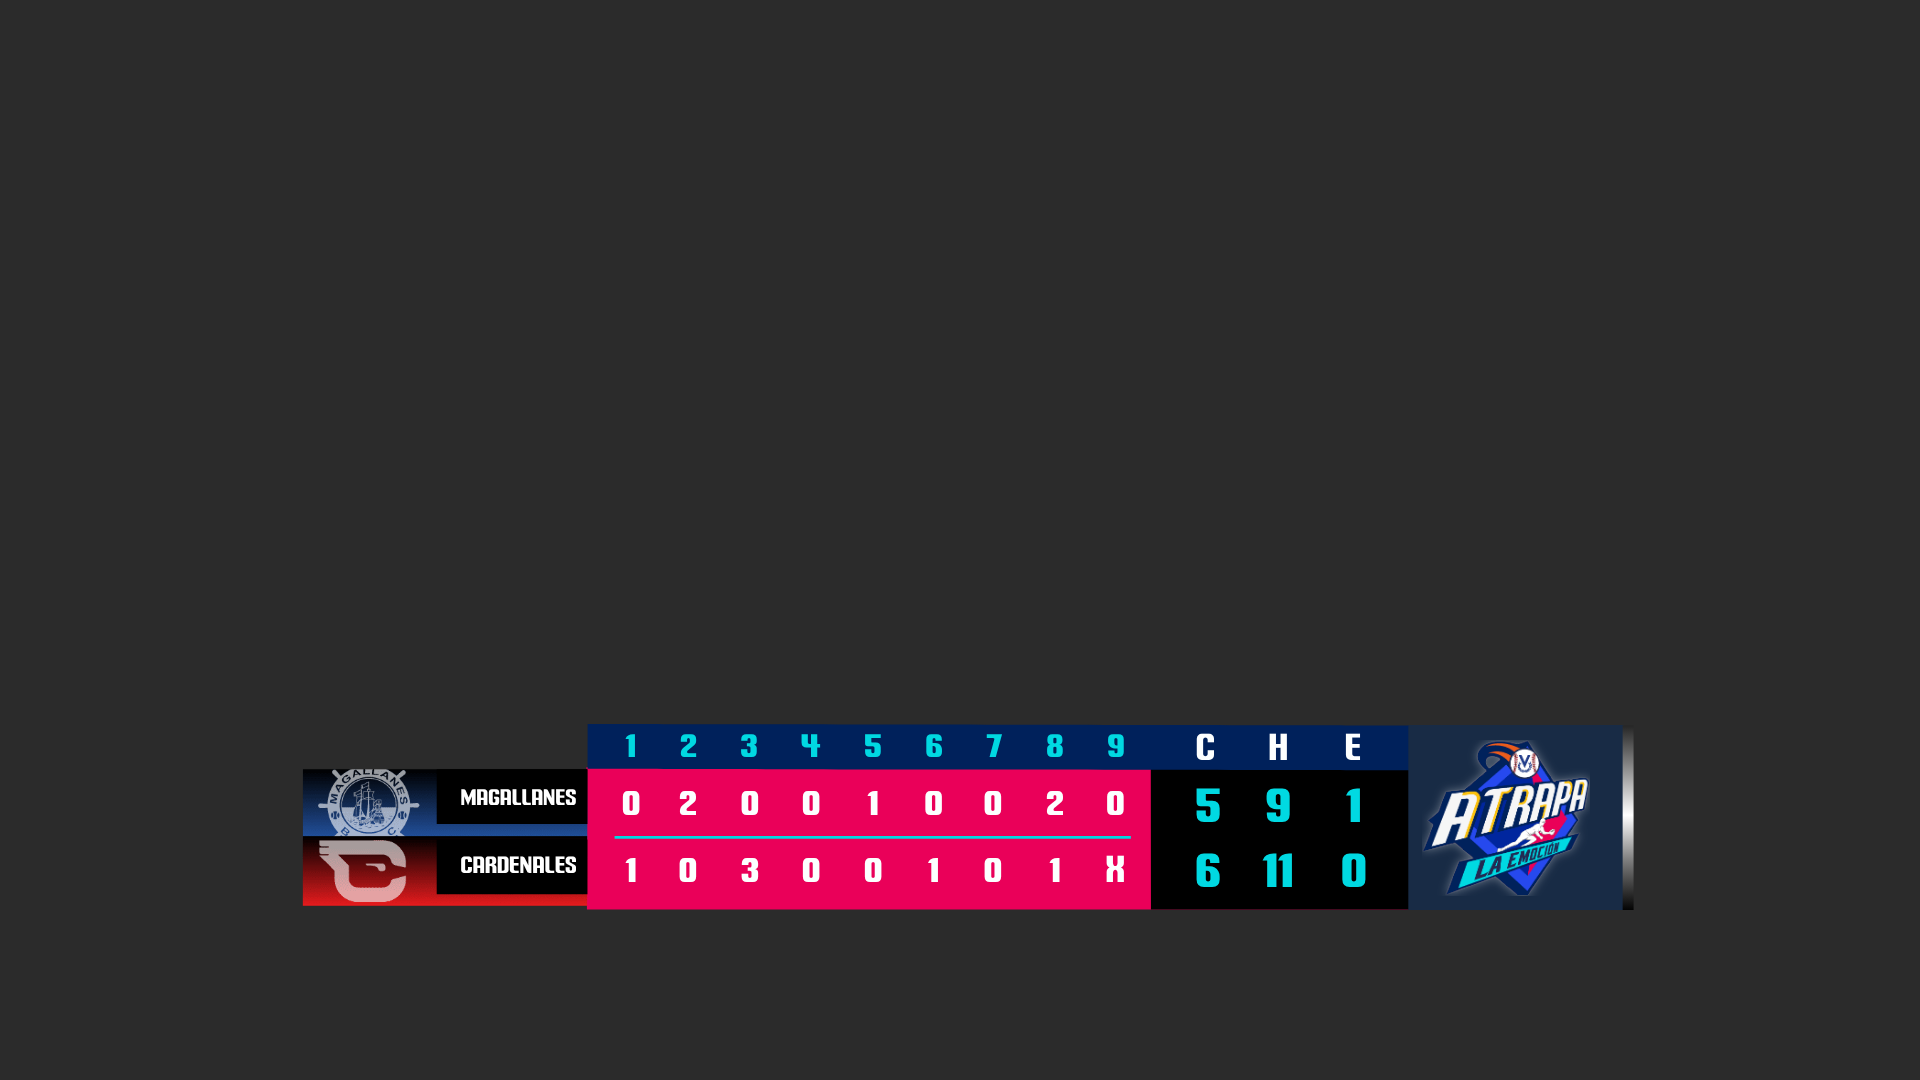
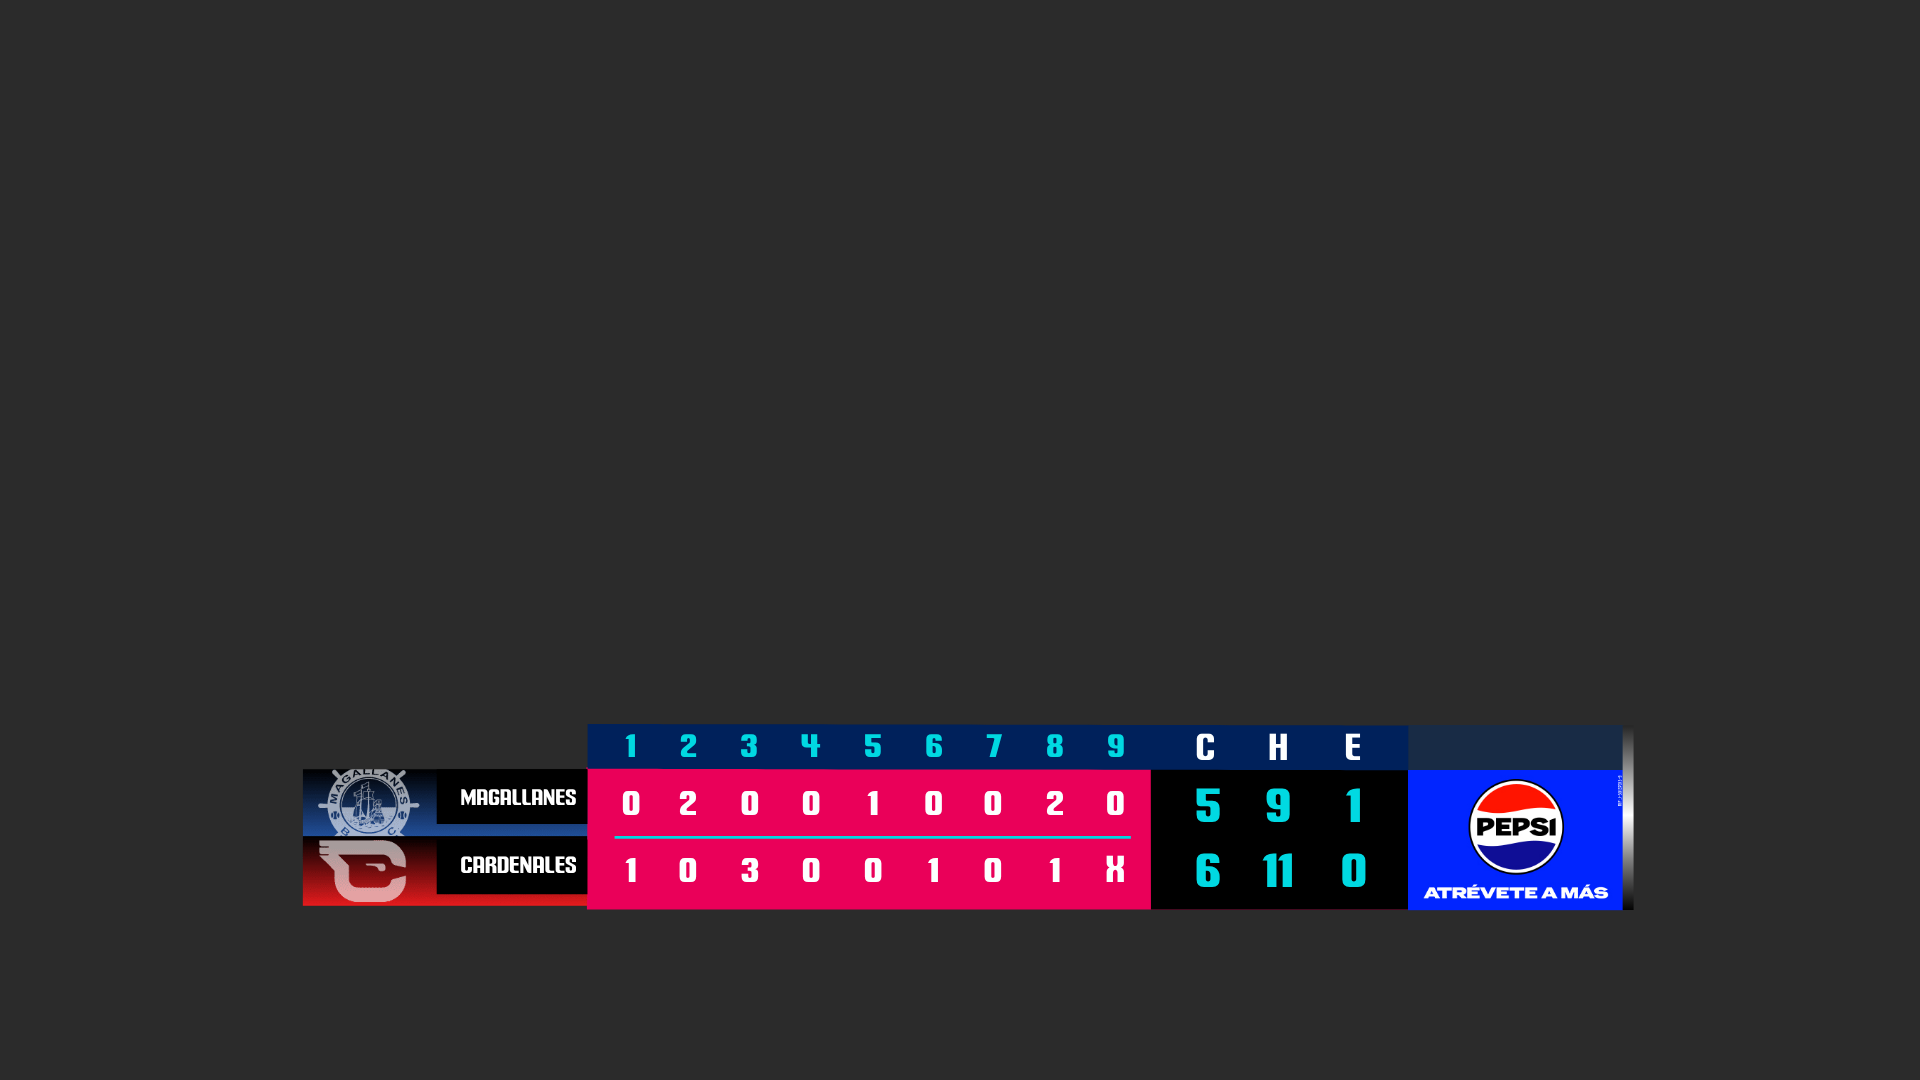
Score final: Pepsi por defecto y la entrada del parcial
La publicidad es la imagen del parcial (Pepsi) y entra como allá: desde la
izquierda, recortada por su rectángulo (39–58), sin capa de escala ni sombra.
Sale el logo de ATRAPA LA EMOCIÓN. Capturas regeneradas.

Claude-Session: https://claude.ai/code/session_01DM7A4Fj1BZXtN4wNSiejVr

Changed region(s): [[0.7188, 0.6722, 0.8438, 0.8556]]

diff --git a/herramientas/prep.js b/herramientas/prep.js
@@ -2107,9 +2107,45 @@ if (hay('TABLA DE POSICIONES')) {
 // STOP, 90–119, no anima nada): es la entrada al revés, como en los demás.
 const SF_PAUSA = 59;                   // play 0–59: queda en el 58
 const SF_ENTRADA = 58;                 // la entrada termina en el 58
-const SF_MARGEN = 8;
+const SF_MARGEN = 8;                   // las cajas, 8 px antes de la columna vecina o del borde de su caja negra
 const SF_PUB = { x: 1408, y: 770, w: 215.1, h: 140.4 };   // la publicidad, en px de pantalla: la caja a lo ancho, la parte negra de alto
-const SF_LOGO = '488fb05ab214.png';     // el logo de ATRAPA LA EMOCIÓN entero en 430 × 280, la publicidad por defecto                   // las cajas, 8 px antes de la columna vecina o del borde de su caja negra
+const SF_PUB_ENTRA = [39, 58];          // la publicidad entra deslizándose, 19 frames como en el parcial, y siempre adentro de su caja (40–51)
+// La caja de la derecha es la clave `publicidad`, para la imagen de un patrocinador (Leon,
+// 2026-11-05), con la imagen y la entrada del cuadro del parcial: por defecto, el Pepsi del parcial
+// (PEP_IMAGEN), y entra deslizándose desde la izquierda, recortada por su rectángulo, con la curva del
+// parcial y la misma distancia en anchos de imagen (328 px para 316). El rectángulo (SF_PUB) es la
+// caja a lo ancho (x 1408–1623) y la parte negra de C H E de alto (y 770–910): la imagen lo cubre
+// (slice), y una de otra proporción queda recortada; la ideal, 430 × 280 (Pepsi, 316 × 200, pierde
+// 2 px de cada lado). El logo de ATRAPA LA EMOCIÓN del export sale: su capa pasa a ser la de la
+// publicidad, sin parent, sin su sombra blanca y sin su escala. "" o una ruta que no carga, la caja vacía.
+function publicidadEnLaCaja(d) {
+    const pub = rename(d, 'LOGO FINAL ATRAPA LA EMOCION.png', 'publicidad');
+    const img = d.assets.find(a => a.id === pub.refId);
+    if (img.w !== 363 || img.h !== 337 || !pub.ef || pub.ks.p.a) throw new Error('publicidad: el logo llega de otra forma');
+    if (!fs.existsSync(path.join(REPO, '_assets', PEP_IMAGEN.p))) throw new Error(`falta _assets/${PEP_IMAGEN.p}`);
+    Object.assign(img, { w: SF_PUB.w, h: SF_PUB.h, u: '../_assets/', p: PEP_IMAGEN.p, e: 0, pr: 'xMidYMid slice' });
+    const cx = SF_PUB.x + SF_PUB.w / 2, cy = SF_PUB.y + SF_PUB.h / 2, fuera = cx - SF_PUB.w * 328 / 316;
+    delete pub.parent; delete pub.ef;
+    pub.ks = {
+        o: { a: 0, k: 100 }, r: { a: 0, k: 0 }, a: { a: 0, k: [SF_PUB.w / 2, SF_PUB.h / 2, 0] }, s: { a: 0, k: [100, 100, 100] },
+        p: { a: 1, k: [
+            { i: { x: 0, y: 1 }, o: { x: 0.333, y: 0 }, t: SF_PUB_ENTRA[0], s: [fuera, cy, 0], to: [0, 0, 0], ti: [0, 0, 0] },
+            { t: SF_PUB_ENTRA[1], s: [cx, cy, 0] }
+        ] }
+    };
+    pub.tt = 1;
+    const mate = {
+        ddd: 0, ind: Math.max(...d.layers.map(l => l.ind)) + 1, ty: 4, nm: 'mate publicidad', td: 1, sr: 1, ao: 0, bm: 0,
+        ks: { o: { a: 0, k: 100 }, r: { a: 0, k: 0 }, p: { a: 0, k: [cx, cy, 0] }, a: { a: 0, k: [0, 0, 0] }, s: { a: 0, k: [100, 100, 100] } },
+        shapes: [{ ty: 'gr', nm: 'cuadro', it: [
+            { ty: 'rc', d: 1, s: { a: 0, k: [SF_PUB.w, SF_PUB.h] }, p: { a: 0, k: [0, 0] }, r: { a: 0, k: 0 } },
+            { ty: 'fl', c: { a: 0, k: [1, 1, 1, 1] }, o: { a: 0, k: 100 }, r: 1, bm: 0 },
+            { ty: 'tr', p: { a: 0, k: [0, 0] }, a: { a: 0, k: [0, 0] }, s: { a: 0, k: [100, 100] }, r: { a: 0, k: 0 }, o: { a: 0, k: 100 }, sk: { a: 0, k: 0 }, sa: { a: 0, k: 0 } }
+        ] }],
+        ip: pub.ip, op: pub.op, st: 0
+    };
+    d.layers.splice(d.layers.indexOf(pub), 0, mate);
+}
 if (hay('SCORE FINAL')) {
     const d = load(path.join(SRC, 'SCORE FINAL/data.json'));
     const FIN = SF_PAUSA + SF_ENTRADA;     // lo que la entrada muestra en el frame t, la salida lo muestra en el FIN − t
@@ -2179,27 +2215,7 @@ if (hay('SCORE FINAL')) {
     rename(d, 'C', 'rotulocarreras');
     rename(d, 'H', 'rotulohits');
     rename(d, 'E', 'rotuloerrores');
-    // La caja de la derecha es la clave `publicidad`, para la imagen de un patrocinador (Leon,
-    // 2026-11-05): llena el rectángulo de la caja a lo ancho (x 1408–1623) y a la altura de la parte
-    // negra de C H E (y 770–910), 215 × 140 px de pantalla; una imagen de otra proporción lo cubre
-    // igual, recortada (slice). Entra como entraba el logo (crece desde el centro del 49 al 56), sin su
-    // sombra blanca: alrededor de una imagen opaca era un halo sobre el negro y la banda azul. Por
-    // defecto, el logo de ATRAPA LA EMOCIÓN entero en ese rectángulo (SF_LOGO: el PNG del export
-    // llevado a 280 de alto, centrado en 430 × 280, con alfa). "" o una ruta que no carga, la caja vacía.
-    const logo = rename(d, 'LOGO FINAL ATRAPA LA EMOCION.png', 'publicidad');
-    const imgLogo = d.assets.find(a => a.id === logo.refId);
-    const raiz = layer(d, 'Nulo 1');
-    if (imgLogo.w !== 363 || imgLogo.h !== 337 || logo.parent !== raiz.ind || raiz.ks.p.a || raiz.ks.s.k[0] !== 90
-        || String(raiz.ks.p.k.slice(0, 2)) !== '972,662' || String(raiz.ks.a.k.slice(0, 2)) !== '51,48' || logo.ks.p.a || logo.ks.a.a)
-        throw new Error('publicidad: el logo o el Nulo 1 llegan de otra forma: medir de nuevo SF_PUB');
-    if (!fs.existsSync(path.join(REPO, '_assets', SF_LOGO))) throw new Error(`falta _assets/${SF_LOGO}`);
-    const u = SF_PUB.w / 0.9, v = SF_PUB.h / 0.9;            // px de pantalla a unidades de la capa (Nulo 1 al 90 %)
-    Object.assign(imgLogo, { w: Math.round(u), h: Math.round(v), u: '../_assets/', p: SF_LOGO, e: 0, pr: 'xMidYMid slice' });
-    logo.ks.a.k = [imgLogo.w / 2, imgLogo.h / 2, 0];
-    logo.ks.p.k = [51 + (SF_PUB.x + SF_PUB.w / 2 - 972) / 0.9, 48 + (SF_PUB.y + SF_PUB.h / 2 - 662) / 0.9, 0];
-    if (!logo.ks.s.a || logo.ks.s.k.filter(k => k.s[0] === 51).length !== 2) throw new Error('publicidad: escala inesperada');
-    for (const k of logo.ks.s.k) if (k.s[0] === 51) k.s = [100, 100, 100];
-    delete logo.ef;
+    publicidadEnLaCaja(d);
     // Las barras: las 8 de cada fila apiladas, todas visibles al arrancar, como en el parcial: el
     // controlador manda 1 a la que va y 0 a las otras siete.
     const barras = d.layers.filter(l => /^\.BARRA_[A-Z]+_(LOCAL|VISITA)$/.test(l.nm));

diff --git a/CLAUDE.md b/CLAUDE.md
@@ -30,7 +30,7 @@ UPDATE están en su `data.md`. Las imágenes de todos, juntas en `_assets/`, una
 | `otrosjuegos/` | Cómo van los otros juegos (el export es OTROS JUEGOS; el título, ASÍ VAN), una columna abajo a la derecha: arriba, un cuadro de Harina PAN entra, arma su logo y se va (una secuencia de JPG); debajo, el título y tres juegos, cada uno con la sede, las barras de visita y local (escudo y nombre), las carreras y el inning con sus flechas. El frame 0 está vacío | `play` lo pone al aire vacío (pausa en el 0); el controlador elige con un `goto`: `tresjuegos` (100–266), `dosjuegos` (400–566) o `unjuego` (700–866), el mismo gráfico con 3, 2 o 1 juegos. En cada uno, desde el `goto`, el cuadro entra del 11 al 23, la columna del 27 al 95 (un juego detrás del otro) y el cuadro se va del 157 al 164 | `salida`: la columna, su entrada al revés, sin el cuadro (2,3 s); `salida2` (1,9 s) y `salida1` (1,3 s) |
 | `prevenido/` | El bateador en el círculo (el export es PREVENIDO AL BATE), abajo a la derecha: un panel de LMV entra girando, muestra su logo con un brillo y se va (una secuencia de PNG); debajo, la barra negra con el PREVENIDO AL BATE y el recuadro azul con el nombre. El frame 0 está vacío | stage `play` pause (0–170): la barra entra del 23 al 32, el título del 31 al 39, el recuadro y el nombre del 33 al 48, y el panel se va del 151 al 168 | `salida`: la barra, el título, el recuadro y el nombre, su entrada al revés, sin el panel (0,9 s) |
 | `posiciones/` | La tabla de posiciones (el export es TABLA DE POSICIONES), a pantalla completa y opaca: el fondo, el título POSICIONES, los rótulos de las columnas, el recuadro magenta de los números y el cuadro de GoGo Royal (una secuencia de JPG); encima, 8 filas, cada una con la barra del equipo (con su escudo), el nombre en una caja negra y JJ, JG, JP, AVE y DIF. El frame 0 está vacío; desde el 1, el gris del diseño tapa el video | stage `play` pause (0–76): el gris quieto hasta el 11, el fondo entra del 12 al 64, las barras bajan del 29 al 44, los nombres aparecen del 41 al 66 y los números del 60 al 75 | `salida`: la entrada al revés, que termina en el gris y corta al video (2,5 s) |
-| `scorefinal/` | El score final (el export es SCORE FINAL), el line score, abajo (x 302–1634, y 724–910): las barras de visita y local (escudo y nombre, las mismas imágenes de la tabla de posiciones), las carreras de los 9 innings sobre un recuadro magenta, C H E en negro y la caja del logo de ATRAPA LA EMOCIÓN (`publicidad`, una imagen que llena la caja: el logo por defecto), con una raya plateada a la derecha. El frame 0 está vacío | stage `play` pause (0–59): las barras entran del 0 al 27, el recuadro y los números del 9 al 48 y la caja del logo del 40 al 58 | `salida`: la entrada al revés (1,9 s) |
+| `scorefinal/` | El score final (el export es SCORE FINAL), el line score, abajo (x 302–1634, y 724–910): las barras de visita y local (escudo y nombre, las mismas imágenes de la tabla de posiciones), las carreras de los 9 innings sobre un recuadro magenta, C H E en negro y la caja del logo de ATRAPA LA EMOCIÓN (`publicidad`, una imagen que llena la caja: Pepsi por defecto), con una raya plateada a la derecha. El frame 0 está vacío | stage `play` pause (0–59): las barras entran del 0 al 27, el recuadro y los números del 9 al 48, la caja del logo del 40 al 58 y la publicidad entra deslizándose del 39 al 58 | `salida`: la entrada al revés (1,9 s) |
 
 Cómo se ve, en [capturas/](capturas/): `score.png` (pantalla completa con data de ejemplo y la barra
 arriba), `score_marcador.png` (sin la barra) y `score_equipos.png` (los 56 cruces
@@ -54,7 +54,8 @@ casos que ponen cada equipo en las 6 filas, recortado al gráfico) y `otrosjuego
 con el panel), del 2026-10-23; `posiciones.png` (pantalla completa con el ejemplo de su `data.md`, en
 la pausa) y `posiciones_equipos.png` (8 casos que ponen cada equipo en las 8 filas, recortado a la
 tabla), del 2026-10-24; `scorefinal.png` (pantalla completa con el ejemplo de su `data.md`, en la pausa)
-y `scorefinal_equipos.png` (los 56 cruces `visita_vs_local`, recortado al gráfico), del 2026-10-29. Si un gráfico cambia, hay que
+y `scorefinal_equipos.png` (los 56 cruces `visita_vs_local`, recortado al gráfico), del 2026-11-05, con
+Pepsi en la caja de la derecha. Si un gráfico cambia, hay que
 regenerarlas (las de Leones, con el ejemplo de su `data.md`, en el último frame de la entrada). No
 entran al zip (`.gitattributes`).
 
@@ -689,15 +690,14 @@ de C H E (y la banda azul) y la caja del logo (x 1408). El magenta crece 1 px a 
 negro y la banda, 1 px a la derecha, por debajo de su vecino. En Chromium, con los 56 cruces, el alfa
 es 255 en todo el gráfico salvo los bordes de afuera.
 
-Publicidad (Leon, 2026-11-05): la caja de la derecha es la clave `publicidad`, para la imagen de un
-patrocinador. La imagen llena la caja a lo ancho y a la altura de la parte negra de C H E (x
+Publicidad (Leon, 2026-11-05): la caja de la derecha es la clave `publicidad`, con la imagen y una
+entrada como las del cuadro del parcial: por defecto, el mismo Pepsi (`_assets/9116da765ab4.png`), y
+entra deslizándose desde la izquierda, recortada por su rectángulo (del 39 al 58, la curva del
+parcial; siempre adentro de la caja, que se abre del 40 al 51). El logo de ATRAPA LA EMOCIÓN del
+export sale. La imagen llena la caja a lo ancho y a la altura de la parte negra de C H E (x
 1408–1623, y 770–910: 215 × 140 px; Leon, con una captura marcada); el tamaño ideal es 430 × 280, y
-una de otra proporción la cubre igual, recortada (`pr` slice). Entra como el logo del diseño, que
-crecía desde su centro del 49 al 56, pero sin su sombra blanca (alrededor de una imagen opaca era un
-halo sobre el negro y la banda azul). Por defecto, el logo de ATRAPA LA EMOCIÓN entero en ese
-rectángulo (`_assets/488fb05ab214.png`: el PNG del export a 280 de alto, centrado en 430 × 280):
-sale un poco más chico y más abajo que en el diseño, y sin la sombra. `""` o una ruta que no carga
-dejan la caja vacía. El controlador todavía no la manda: sale el logo.
+una de otra proporción la cubre igual, recortada (`pr` slice: Pepsi pierde 2 px de cada lado). `""` o
+una ruta que no carga dejan la caja vacía. El controlador todavía no la manda: sale Pepsi.
 
 Colores: el magenta es el de los outs del score de antes (`#EA0059`) y el cian, el de los textos del
 score (`#00D9E2`, 113,5 IRE en NTSC compuesto). Pendiente: medir el logo y las barras en NTSC (las
@@ -1252,7 +1252,7 @@ lo del 51 y el 150, el gris del 1; el 151, vacío.
 **Score final**
 
 - **Imágenes:** las 9 del export van tal cual a `scorefinal/images/` (`img_0`, el logo; `img_1`–`8`,
-  las barras, los mismos archivos que las de la tabla de posiciones); `consolidar.mjs` no suma nada: el logo (`img_0`) no se usa, la publicidad por defecto es `SF_LOGO`.
+  las barras, los mismos archivos que las de la tabla de posiciones); `consolidar.mjs` no suma nada: el logo (`img_0`) no se usa, la publicidad es la del parcial.
 - **Clases:** `,NOMBRE EQUIPO VISITANTE` (con coma: sin clase) y `.NOMBRE EQUIPO LOCAL` (clase
   `NOMBRE`) → `NOMBREVISITA` / `NOMBRELOCAL`; `.CARRERAS POR INNING ALTA<n>` / `BAJA<n>` (todas con la
   clase `CARRERAS`) → `INNINGVISITA<n>` / `INNINGLOCAL<n>`; `.CARRERASVISITA`, `.HITSVISITA`,
@@ -1260,7 +1260,8 @@ lo del 51 y el 150, el gris del 1; el 151, vacío.
   espacio, y el texto `9 ` también) → `ultimoinning`; `C`, `H`, `E` (sin clase) → `rotulocarreras`,
   `rotulohits`, `rotuloerrores`; las barras `.BARRA_<EQUIPO>_<LOCAL|VISITA>` →
   `<SIGLAS><LOCAL|VISITA>_opacidad`. El logo (`LOGO FINAL ATRAPA LA EMOCION.png`, clase `png`) →
-  `publicidad`: el rectángulo `SF_PUB`, la imagen `SF_LOGO` y sin el Drop Shadow (ver arriba). Las `Capa de formas` y `Nulo 1` quedan como vienen.
+  `publicidad` (`publicidadEnLaCaja()`: el rectángulo `SF_PUB` con su mate, la imagen del parcial
+  y la entrada `SF_PUB_ENTRA`; sin parent, escala ni Drop Shadow; ver arriba). Las `Capa de formas` y `Nulo 1` quedan como vienen.
 - **Fuente:** `fPath` llega como `SCORE FINAL/ FONT`: pasa a `font/LTEnergy-Regular.ttf` (el mismo
   archivo que el del bateador).
 - **All Caps:** llega apagado: `prep.js` lo prende.

diff --git a/scorefinal/data.md b/scorefinal/data.md
@@ -14,8 +14,8 @@
 A control client sends a flat JSON object. Any subset of these keys is valid — omit what you don't need to change.
 
 **Final score (line score):** the runs of each inning for both teams (visitor on top, home below),
-runs, hits and errors, the team bars with their names, and the box on the right: the ATRAPA LA
-EMOCIÓN logo by default, or a sponsor (`publicidad`).
+runs, hits and errors, the team bars with their names, and the sponsor box on the right (`publicidad`:
+Pepsi by default).
 
 **Same keys as the LVBP-Meridiano `final`** for what both show: the team bars, the runs, hits and
 errors (`CARRERASVISITA`, `HITSVISITA`, `ERRORESVISITA`, `CARRERASLOCAL`…), the runs of each inning
@@ -43,12 +43,13 @@ won) and `""` to leave a cell empty. All the numbers start empty.
 **Runs, hits and errors:** centered in their columns; three digits fit at the design size.
 
 **Sponsor:** `publicidad`, the path of an image (relative to the graphic's `index.html`, or
-absolute), as in `parcial`. It fills the box on the right: its full width and the height of the
-black part of C H E (x 1408–1623, y 770–910, 215 × 140 px on screen). **Best size: 430 × 280 px**
-(or any image with that 43:28 proportion); one of another proportion still covers the whole box,
-cropped at the sides or top and bottom, centered. It grows in from its center (frames 49 to 56), as
-the logo did. By default it is the ATRAPA LA EMOCIÓN logo, whole in that box
-(`../_assets/488fb05ab214.png`). `""` or a path that doesn't load leaves the box empty, without a
+absolute), as in `parcial`, with the same default image and a similar entry. It fills the box on the
+right: its full width and the height of the black part of C H E (x 1408–1623, y 770–910, 215 × 140
+px on screen). **Best size: 430 × 280 px** (or any image with that 43:28 proportion); one of another
+proportion still covers the whole box, cropped at the sides or top and bottom, centered (the Pepsi
+insert, 316 × 200, loses 2 px on each side). It slides in from the left, clipped by the box (frames
+39 to 58), as in `parcial`. By default it is the Pepsi insert of `parcial`
+(`../_assets/9116da765ab4.png`). `""` or a path that doesn't load leaves the box empty, without a
 broken-image icon.
 
 **Placement:** bottom of the screen (x 302–1634, y 724–910). It overlaps `parcial` and `otrosjuegos`:
@@ -87,7 +88,7 @@ they don't go on air together.
   "MAGALOCAL_opacidad": 0,
   "TIBUSLOCAL_opacidad": 0,
   "TIGRESLOCAL_opacidad": 0,
-  "publicidad": "../_assets/488fb05ab214.png"
+  "publicidad": "../_assets/9116da765ab4.png"
 }
 ```
 
@@ -144,7 +145,7 @@ All are box text: a longer string shrinks to fit instead of overflowing, always 
 
 | Class | What | Default |
 |-------|------|---------|
-| `publicidad` | Box on the right, 215 × 140 px on screen (covers it: best 430 × 280) | `../_assets/488fb05ab214.png` (ATRAPA LA EMOCIÓN) |
+| `publicidad` | Sponsor box on the right, 215 × 140 px on screen (covers it: best 430 × 280) | `../_assets/9116da765ab4.png` (Pepsi) |
 
 ## Opacity layers
 
